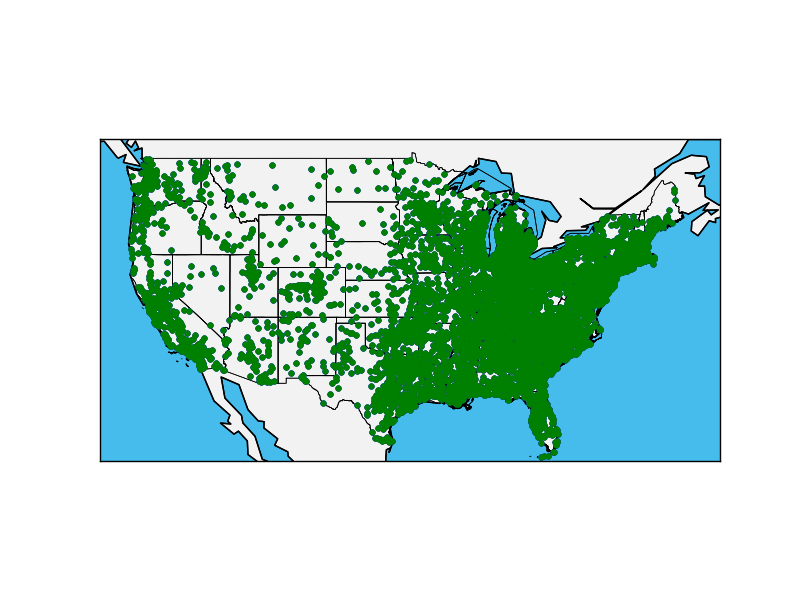
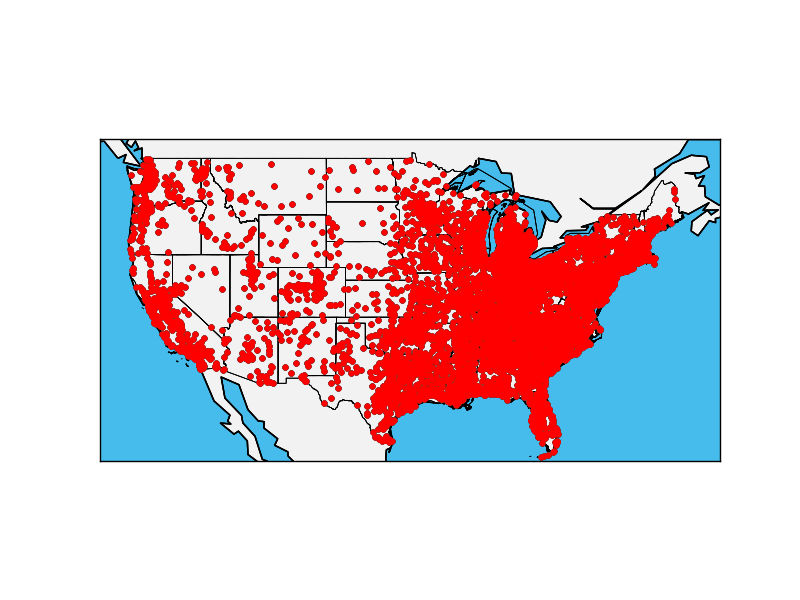
functional create_maps, used lookup function instead of df

Changed region(s): [[0.1562, 0.24, 0.9062, 0.78]]

diff --git a/create_map.py b/create_map.py
@@ -5,53 +5,31 @@ from mpl_toolkits.basemap import Basemap
 from matplotlib.patches import Polygon
 from matplotlib.collections import PatchCollection
 from matplotlib.colors import Normalize
+import helpers
+import zipcode_tools
 
-
-# In[2]:
-
-data = pk.unpickle_object('clean_data')
-data = data[data['total population'] < 50000]
-data = data[data['total population'] > 5000]
-
-
-# In[3]:
+lats, lons = helpers.get_lat_lon('zipcodes.csv')
 
 westlimit=-127.53; southlimit=24.17; eastlimit=-63.19; northlimit=50.32
 mid_lat = abs(westlimit - eastlimit)*0.5
 mid_lon = abs(northlimit - southlimit)*0.5
-
-
-# In[5]:
 
 m = Basemap(resolution='c', # c, l, i, h, f or None
             projection='merc',
             lat_0=mid_lat, lon_0=mid_lon,
             llcrnrlon=westlimit, llcrnrlat=southlimit, urcrnrlon=eastlimit, urcrnrlat=northlimit)
 
-
-# In[6]:
-
 m.drawmapboundary(fill_color='#46bcec')
 m.fillcontinents(color='#f2f2f2',lake_color='#46bcec')
 m.drawcoastlines()
 m.readshapefile('statesp020', 'statesp020')
-x,y = m(list(data['lons']), list(data['lats']))
+x,y = m(lons, lats)
 m.plot(x,y,'.', markersize='8')
 fig_size = plt.rcParams["figure.figsize"]
 fig_size[0] = fig_size[0]*4
 fig_size[1] = fig_size[1]*4
 plt.rcParams["figure.figsize"] = fig_size
-print(plt.rcParams["figure.figsize"])
 
 plt.savefig('filename.png', bbox_inches=0)
-
-
-# In[ ]:
-
-data.describe()
-
-
-# In[ ]:
-
 
 

diff --git a/helpers.py b/helpers.py
@@ -11,11 +11,24 @@ def read_csv(filename):
     return output
 
 
+def to_csv(alist):
+    with open('errors.csv', 'w+') as f:
+        for line in alist:
+            f.write('%s,\n' % line)
+
+
 def get_lat_lon(filename):
     """Returns two lists for lats and lons"""
     zipcodes = read_csv(filename)
-    lats = list(); lons = list()
+    lats = list(); lons = list(); errors = list();
     for zipcode in zipcodes:
         data = zipcode_tools.get_city_data_geolocator(zipcode) 
-        lats.append(data[0]); lons.append(data[1])
+        lat = data[0]; lon = data[1];
+        if isinstance(lat, float) and isinstance(lon, float):
+            lats.append(lat); lons.append(lon)
+        else:
+            errors.append(zipcode)
+    if len(errors) != 0:
+        to_csv(errors)
+        print('Errors written to file. Length: %s' % len(errors))
     return lats, lons
